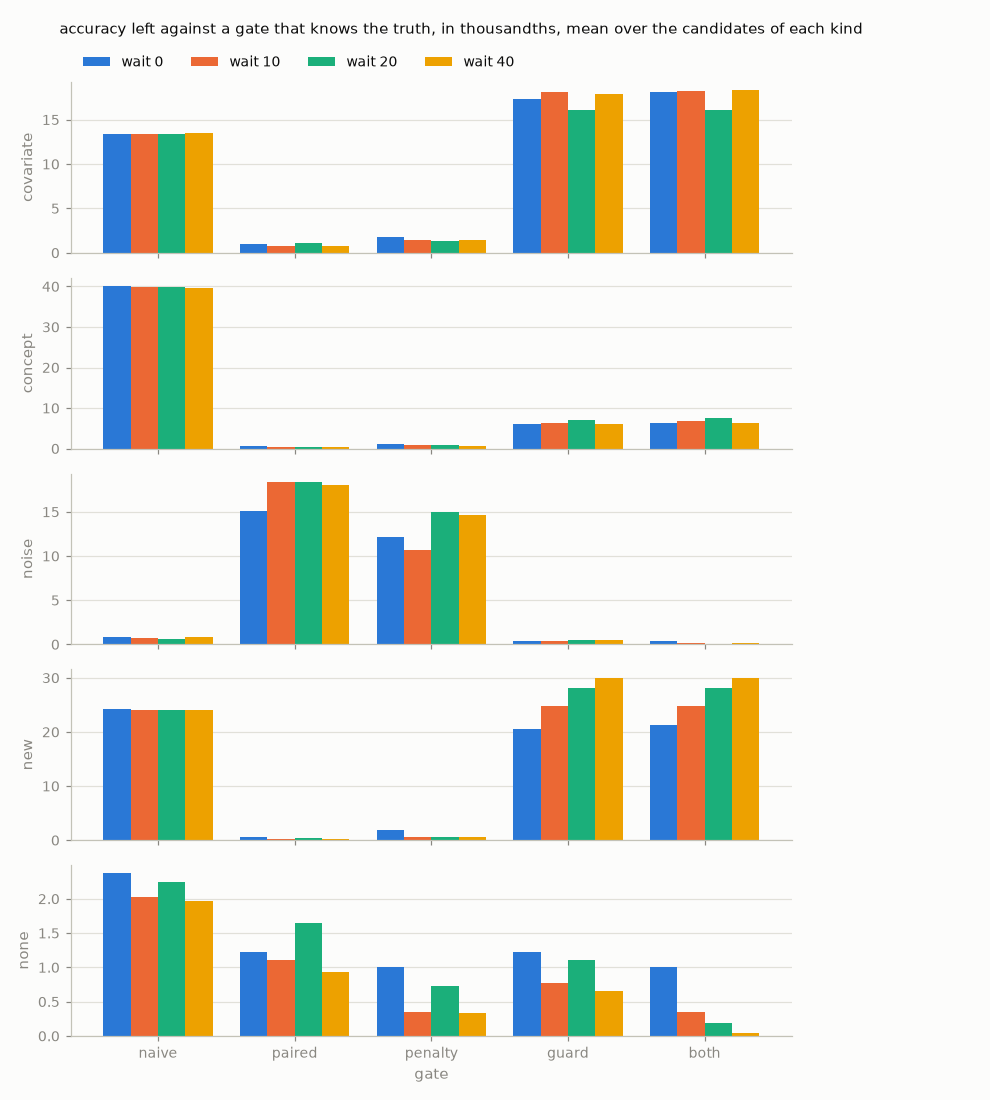
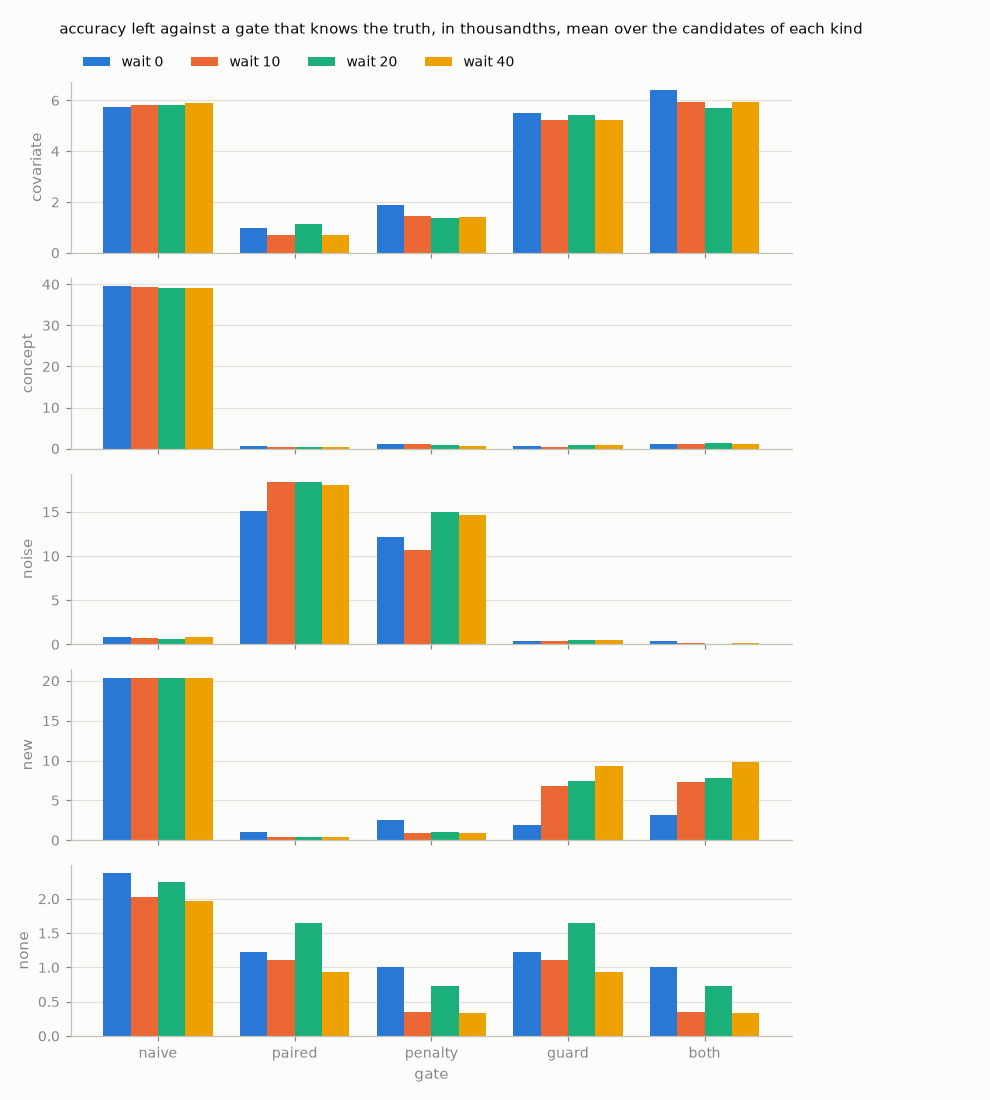
weigh the class guard's evidence like the overall gain's
the guard held a promotion when a class's measured recall fell by more
than 0.05, on 20 to 100 rows where a recall's standard error is 0.03
to 0.08. make gate showed what that cost: it held so many better
candidates for nothing that it left 0.0068 of accuracy per concept
break candidate where the penalty alone left 0.0009, and 0.025 on a
new class. a class now holds the promotion only when its drop stands
out from its noise: the measured change plus 1.645 standard errors,
95% in gate/policy.toml, is still below -0.05.

with the loop running on it, at a wait of 10, the default gate leaves
0.0010 on a concept break, 0.0073 on a new class and 0.0060 on a
covariate shift, against 0.0068, 0.025 and 0.018, and misses 14%, 20%
and 46% of the better candidates, against 21%, 43% and 66%. on a
concept break it now promotes 10% of the worse ones, as the penalty
alone did, where it promoted none. the loop promotes differently, so
these are 359 candidates, not the 417 of before. label noise is still
held every time.

what it gives back is the class losses it no longer sees. most are
small, 0.05 to 0.10 of recall, and most on the rarest class, with about
20 held-out rows and a standard error of 0.06 to 0.08: below what the
gate's rows can resolve. the old guard caught more of them by holding
on noise. catching them takes more labels of those classes, not
another threshold.

diff --git a/gate/test_segments.py b/gate/test_segments.py
@@ -4,22 +4,24 @@ from gate.policy import decide, load, review
 from gate.segments import given_up
 
 
-def result(class_gain, class_rows, gain=0.05, se=0.01):
+def result(class_gain, class_rows, class_se, gain=0.05, se=0.01):
     return {"rows": 400, "gain": gain, "se": se, "class gain": np.array(class_gain),
-            "class rows": np.array(class_rows)}
+            "class rows": np.array(class_rows), "class se": np.array(class_se)}
 
 
-def test_a_class_losing_more_than_the_tolerance_is_given_up():
-    got = result([-0.10, 0.20, -0.04, -0.30, np.nan], [60, 80, 40, 10, 0])
-    # class 2 is within the tolerance, class 3 has too few rows to judge
+def test_a_class_given_up_is_one_whose_loss_stands_out_from_its_noise():
+    got = result([-0.10, 0.20, -0.12, -0.30, np.nan], [60, 80, 40, 10, 0],
+                 [0.02, 0.03, 0.05, 0.05, np.nan])
+    # class 2 loses as much as class 0 but on noisier rows, class 3 has too few
     assert given_up(got, load()) == [(0, -0.10, 60)]
 
 
 def test_a_class_given_up_holds_a_candidate_that_wins_overall():
-    got = result([-0.10, 0.20, 0.0, 0.0, np.nan], [60, 80, 40, 30, 0])
+    got = result([-0.10, 0.20, 0.0, 0.0, np.nan], [60, 80, 40, 30, 0],
+                 [0.02, 0.03, 0.03, 0.04, np.nan])
     assert decide(got, load()).promote is False
     assert "class 0" in decide(got, load()).reason
-    got["class gain"][0] = -0.01
+    got["class gain"][0] = -0.04
     assert decide(got, load()).promote is True
 
 

diff --git a/gate/segments.py b/gate/segments.py
@@ -1,3 +1,5 @@
+from statistics import NormalDist
+
 import numpy as np
 
 
@@ -6,9 +8,13 @@ def given_up(result, policy):
 
     from compare()'s result. a class counts when it has at least
     policy["class_rows"] held-out labels and its recall falls by more than
-    policy["tolerance"]. smaller classes are too noisy to judge and never count.
+    policy["tolerance"] with policy["class_confidence"] at least: the measured
+    change plus that many standard errors is still below -tolerance. a small
+    class needs a large drop to count, and one with too few rows never does.
     """
+    z = NormalDist().inv_cdf(policy["class_confidence"])
     judged = result["class rows"] >= policy["class_rows"]
-    lost = np.flatnonzero(judged & (result["class gain"] < -policy["tolerance"]))
+    sure = result["class gain"] + z * result["class se"] < -policy["tolerance"]
+    lost = np.flatnonzero(judged & sure)
     return sorted(((int(c), float(result["class gain"][c]), int(result["class rows"][c]))
                    for c in lost), key=lambda t: t[1])

diff --git a/gate/test_policy.py b/gate/test_policy.py
@@ -9,7 +9,7 @@ from world.truth import judge
 def result(gain, se, rows=400):
     # no class with rows enough to be judged
     return {"rows": rows, "gain": gain, "se": se, "class rows": np.zeros(5, dtype=int),
-            "class gain": np.full(5, np.nan)}
+            "class gain": np.full(5, np.nan), "class se": np.full(5, np.nan)}
 
 
 def test_expected_gain_and_loss_match_a_simulation():
@@ -22,7 +22,8 @@ def test_expected_gain_and_loss_match_a_simulation():
 
 
 def test_the_shipped_policy_reads():
-    assert set(load()) == {"penalty", "wait", "min_rows", "class_rows", "tolerance", "retry"}
+    assert set(load()) == {"penalty", "wait", "min_rows", "class_rows", "tolerance",
+                           "class_confidence", "retry"}
 
 
 def test_too_few_rows_hold_whatever_they_say():

diff --git a/README.md b/README.md
@@ -282,7 +282,9 @@ where to argue with it.
 
 `gate/segments.py` holds a candidate that gives up a class: one with enough
 held-out labels whose recall falls by more than a tolerance, however good the
-overall gain looks. Classes with too few rows can't hold it, and the rarest
+overall gain looks. On a few dozen rows a recall moves by that much for
+nothing, so the drop has to stand out from that noise first, the way the
+overall gain does. Classes with too few rows can't hold it, and the rarest
 seldom has enough, so a loss there goes unseen.
 
 The overall gain can't see label noise: it is measured with the labels the
